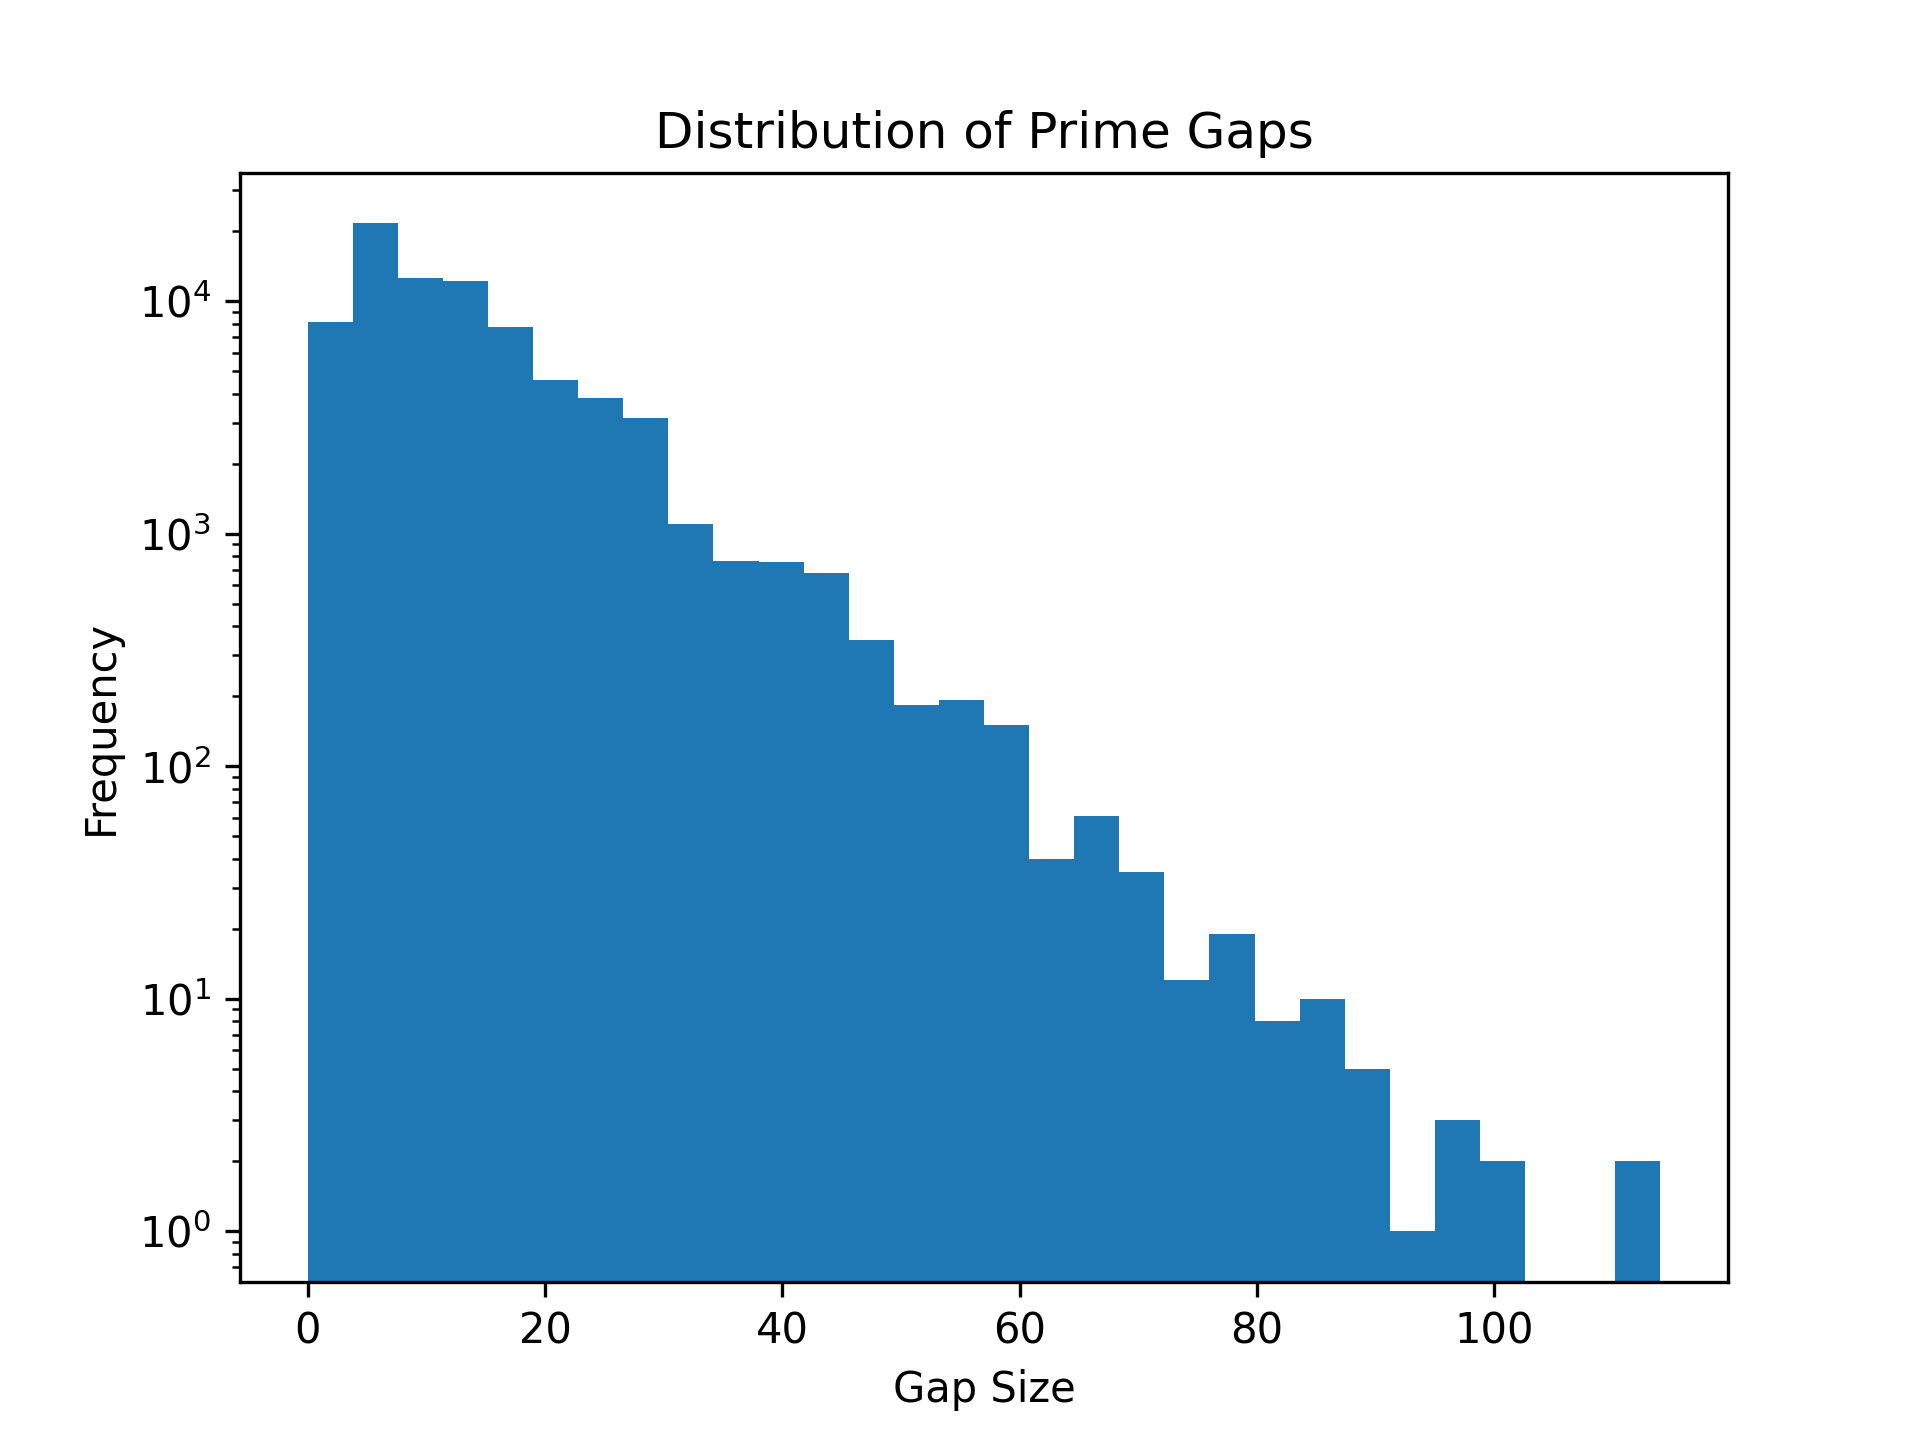
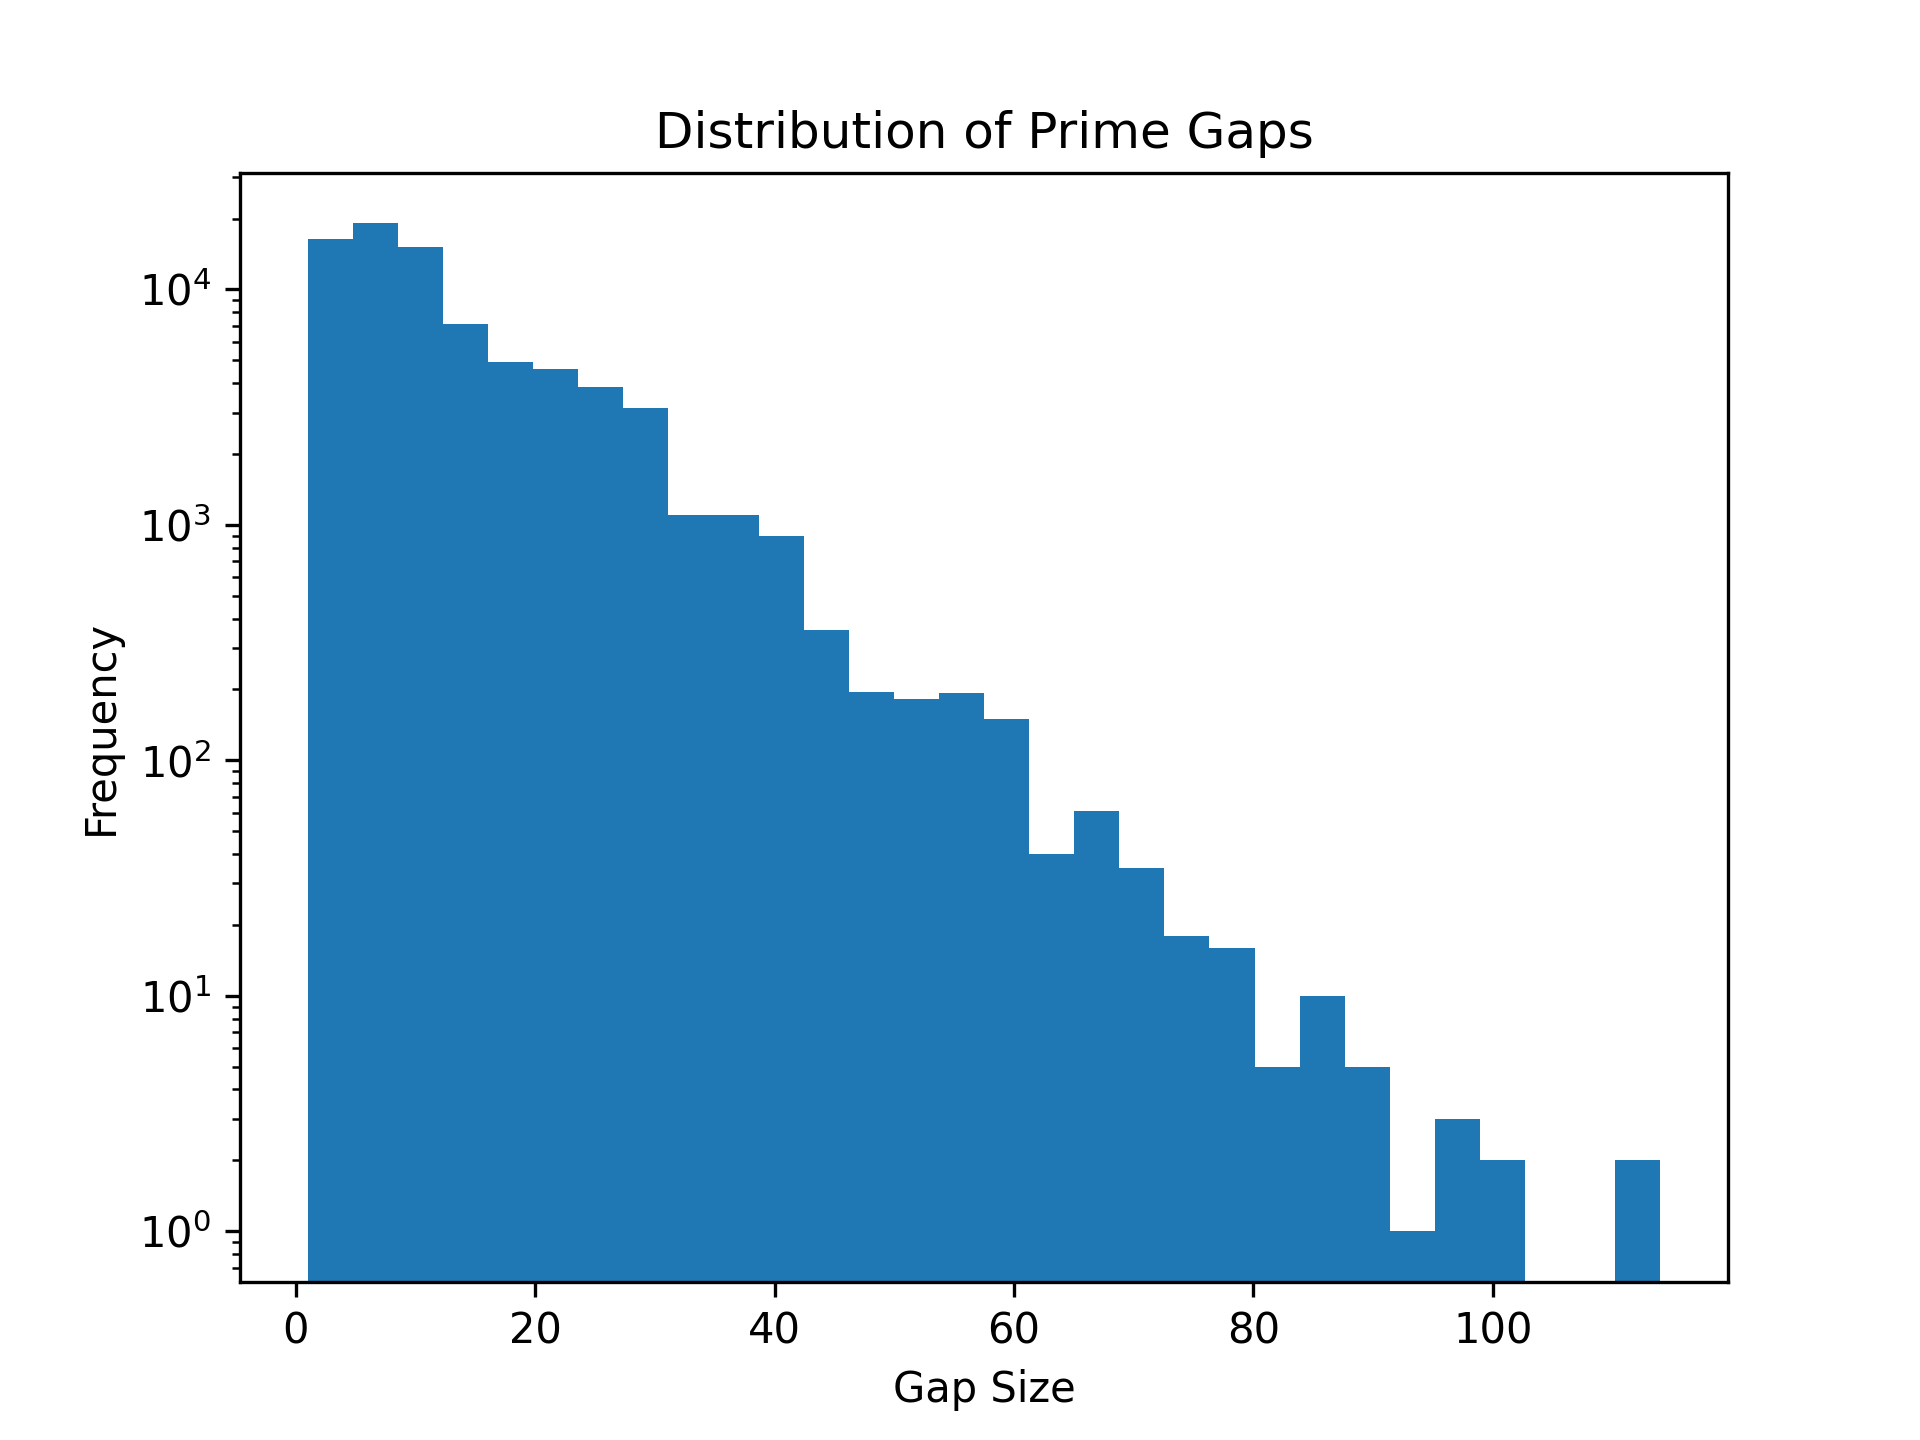
Gaps for the 1st prime number is not defined. Omit inserting a 0. Then use slicing to remove the mismatch in lengths between the prime_number array and the gaps array

diff --git a/prime.py b/prime.py
@@ -28,13 +28,11 @@ class PrimePatterns(object):
                 self.prime_numbers.append(num)
                 if prev_prime is not None:
                     self.gaps.append(num - prev_prime)
-                else:
-                    self.gaps.append(0)  # No gap for the first prime
                 prev_prime = num
 
 
     def plot_prime_gaps(self):
-        plt.plot(self.prime_numbers, self.gaps, marker='o', linestyle='-', markersize=3)
+        plt.plot(self.prime_numbers[1:], self.gaps, marker='o', linestyle='-', markersize=3)
         plt.title('Prime Numbers and Their Gaps')
         plt.xlabel('Prime Numbers')
         plt.ticklabel_format(style='plain', axis='x')
